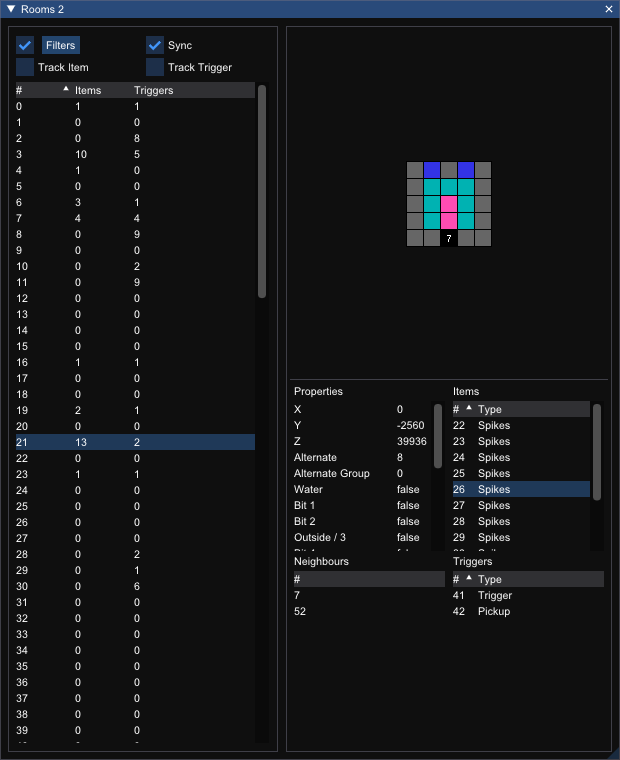
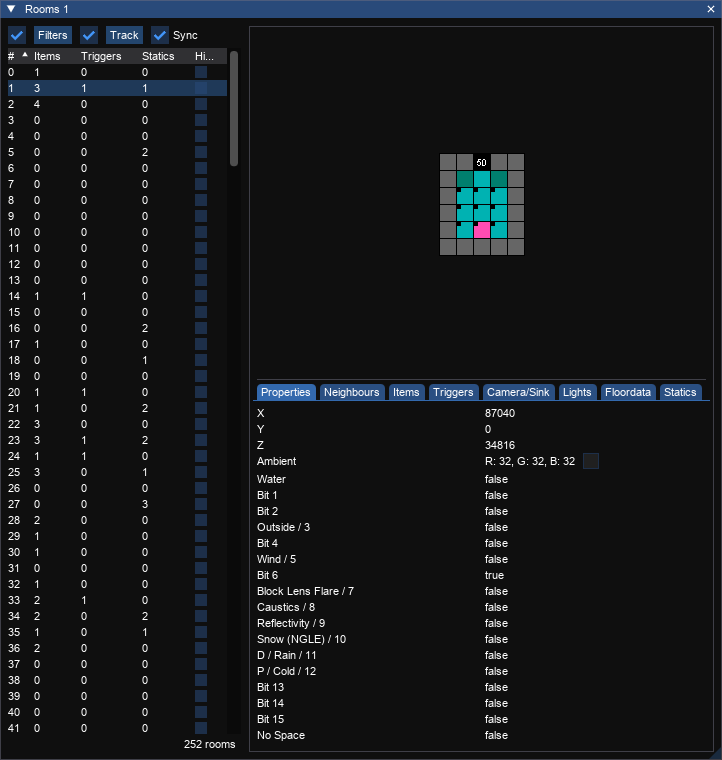
More docs
#1087

diff --git a/doc/roomswindow.md b/doc/roomswindow.md
@@ -11,8 +11,7 @@ Input|Action
 ---|------
 Filters | Open the [filters](filters.md) editor. The checkbox toggles whether configured filters are applied.
 Sync | Whether the room selected in the window will be synced with the room selected in the view (bidirectional)
-Track Item | Whether to change selected room when an item is selected
-Track Trigger | Whether to change selected room when a trigger is selected
+Track | Whether to change the selected room when items or triggers are selected. Clicking the button will show the expanded track menu where you can choose what to track.
 
 ## Rooms List
 
@@ -21,6 +20,8 @@ Column | Meaning
 \# | The room number
 Items | The number of the items in the room
 Triggers | The number of triggers in the room
+Statics | The number of static meshes in the room
+Hide | Show/Hide the room in the 3D view
 
 ## Minimap
 
@@ -31,7 +32,10 @@ Key|Action
 Left click          | If a trigger square, will select the trigger. If not a trigger (or `CTRL` is pressed) it will follow a portal, or go to the room below. 
 Right click         | Goes to the room above, if one is present.
 
-## Properties
+## Tabs
+Rooms have a lot of properties and contents so there are tabs for each part. 
+
+### Properties
 
 Lists the various properties of the room.
 
@@ -40,6 +44,7 @@ Property | Meaning | Notes
 X | X position of the room
 Y | Y position of the room
 Z | Z position of the room
+Ambient | Ambient lighting in the room
 Water | Whether the water bit flag is set | Bit 0
 Bit 1 | Whether bit 1 is set
 Bit 2 | Whether bit 2 is set
@@ -56,8 +61,17 @@ Bit 12 | Whether bit 12 is set | Bit 12 (Cold in NGLE, P in TRLE)
 Bit 13 | Whether bit 13 is set
 Bit 14 | Whether bit 14 is set
 Bit 15 | Whether bit 15 is set
+No Space | Whether this room contains no-space entry
 
-## Items
+### Neighbours
+
+Shows the rooms that are immediate neighbours of this room. Clicking one of the rooms will select it.
+
+Column | Meaning
+---|---
+\# | The room number
+
+### Items
 
 Shows the items that are contained in the room. Clicking an item will select it in the viewer.
 
@@ -66,19 +80,50 @@ Column | Meaning
 \# | The item number
 Type | The type of the item triggered
 
-## Neighbours
-
-Shows the rooms that are immediate neighbours of this room. Clicking one of the rooms will select it.
-
-Column | Meaning
----|---
-\# | The room number
-
-## Triggers
+### Triggers
 
 Shows the triggers that are in the room. Clicking one will select it in the viewer.
 
 Column | Meaning
 ---|---
-\# | The room number
+\# | The trigger number
 Type | The type of trigger
+
+### Camera/Sink
+
+Shows the camera/sinks that are in the room. Clicking one will select it in the viewer.
+
+Column | Meaning
+---|---
+\# | The camera/sink number
+Type | The type of camera/sink
+
+### Lights
+
+Shows the lights that are in the room. Clicking one will select it in the viewer.
+
+Column | Meaning
+---|---
+\# | The light number
+Type | The type of light
+
+### Floordata
+
+Shows the floordata for the selected sector. Clicking the minimap when the floordata tab is selected will allow you to select a sector.
+
+If the `Raw` checkbox is checked there will be no meaning attached to any of the floordata values. If unchecked trview will interpret the values.
+
+Column | Meaning
+---|---
+\# | The floordata number
+Value | The value of the floordata
+Meaning | What the value means (only present if `Raw` in unchecked)
+
+### Statics
+
+Shows the statics that are in the room. Clicking one will select it in the viewer.
+
+Column | Meaning
+---|---
+\# | The static number
+ID | The mesh ID of the static

diff --git a/doc/windows.md b/doc/windows.md
@@ -1,15 +1,25 @@
-# [Windows](doc/windows.md)
+# Windows
+Aside from the [main 3D view](viewer.md) there are specialised windows for different elements of the level and route. These can be rearranged and dragged outside of the main view if desired.
 
-## [Camera/Sink](doc/camerasinkwindow.md)
-## [Items](doc/itemswindow.md)
-## [Lights](doc/lightswindow.md)
-## [Plugins](doc/pluginswindow.md)
-## [Rooms](doc/roomswindow.md)
-## [Route](doc/routewindow.md)
-## [Statics](doc/staticswindow.md)
-## [Textures](doc/textureswindow.md)
-## [Triggers](doc/triggerswindow.md)
-## [Viewer](doc/viewer.md)
+## [Camera/Sink](camerasinkwindow.md)
+Cameras and Sinks (underwater currents) share a data structure in the level so they share a window.
+## [Items](itemswindow.md)
+Lists items and their properties.
+## [Lights](lightswindow.md)
+Lists lights and their properties.
+## [Plugins](pluginswindow.md)
+Shows the currently loaded plugins.
+## [Rooms](roomswindow.md)
+Lists room and their properties and contents.
+## [Route](routewindow.md)
+Used to manage the current speedrun route.
+## [Statics](staticswindow.md)
+Browse static meshes and room sprites (in earlier games).
+## [Textures](textureswindow.md)
+Shows the texture tiles present in the level.
+## [Triggers](triggerswindow.md)
+Lists triggers and their properties.
+## [Viewer](viewer.md)
 The main 3D view.
-## [Settings](doc/settings.md)
+## [Settings](settings.md)
 Accessed through the level info section of the Viewer.

diff --git a/doc/itemswindow.md b/doc/itemswindow.md
@@ -10,7 +10,7 @@ Shows the list of items that exist in the current level and allows you to filter
 Input|Action
 ---|------
 Filters | Open the [filters](filters.md) editor. The checkbox toggles whether configured filters are applied.
-Track Room          | Whether to show the items that are in the currently selected room
+Track           | Whether to show the items that are in the currently selected room. Clicking the button will show the expanded track menu where you can choose whether rooms are tracked.
 Sync | Whether the item selected in the window will be synced with the item selected in the view (bidirectional)
 
 ## Items List
@@ -36,7 +36,7 @@ Clear Body | Whether to remove a dead body when a bodybag trigger is triggered
 Invisible | Whether this item is invisible
 Flags | Entity activation flags
 OCB | Used to change entity behaviour
-Categories | Categories to which the item is assigned
+Category | Categories to which the item is assigned
 
 ## Add To Route
 Clicking the `Add to Route` button will insert this item at the current position in the route.

diff --git a/doc/lightswindow.md b/doc/lightswindow.md
@@ -8,7 +8,7 @@ _Shortcut: Ctrl + L_
 Input|Action
 ---|------
 Filters | Open the [filters](filters.md) editor. The checkbox toggles whether configured filters are applied.
-Track Room          | Whether to show the items that are in the currently selected room
+Track Room          | Whether to show the lights that are in the currently selected room. Clicking the button will show the expanded track menu where you can choose whether rooms are tracked.
 Sync | Whether the light selected in the window will be synced with the light selected in the view (bidirectional)
 
 ## Lights List
@@ -45,6 +45,8 @@ Density|Fog Bulb|TR4+
 Radius|Fog Bulb|TR4+
 
 ### Light Types
+
+Not all light types are in all games. The table below shows when the different types are introduced.
 
 Type | Games
 ---|---

diff --git a/doc/pluginswindow.md b/doc/pluginswindow.md
@@ -1,0 +1,12 @@
+# Plugins
+
+The plugins window shows the plugins that have been loaded from the configured plugins directories. The plugins directories can be managed from the [settings window](settings.md).
+
+![Plugins](plugins.png)
+
+Action|Usage
+---|---
+Open|Opens the directory for the plugin in explorer.
+Reload|Attempts to reload the plugin from file. 
+
+
